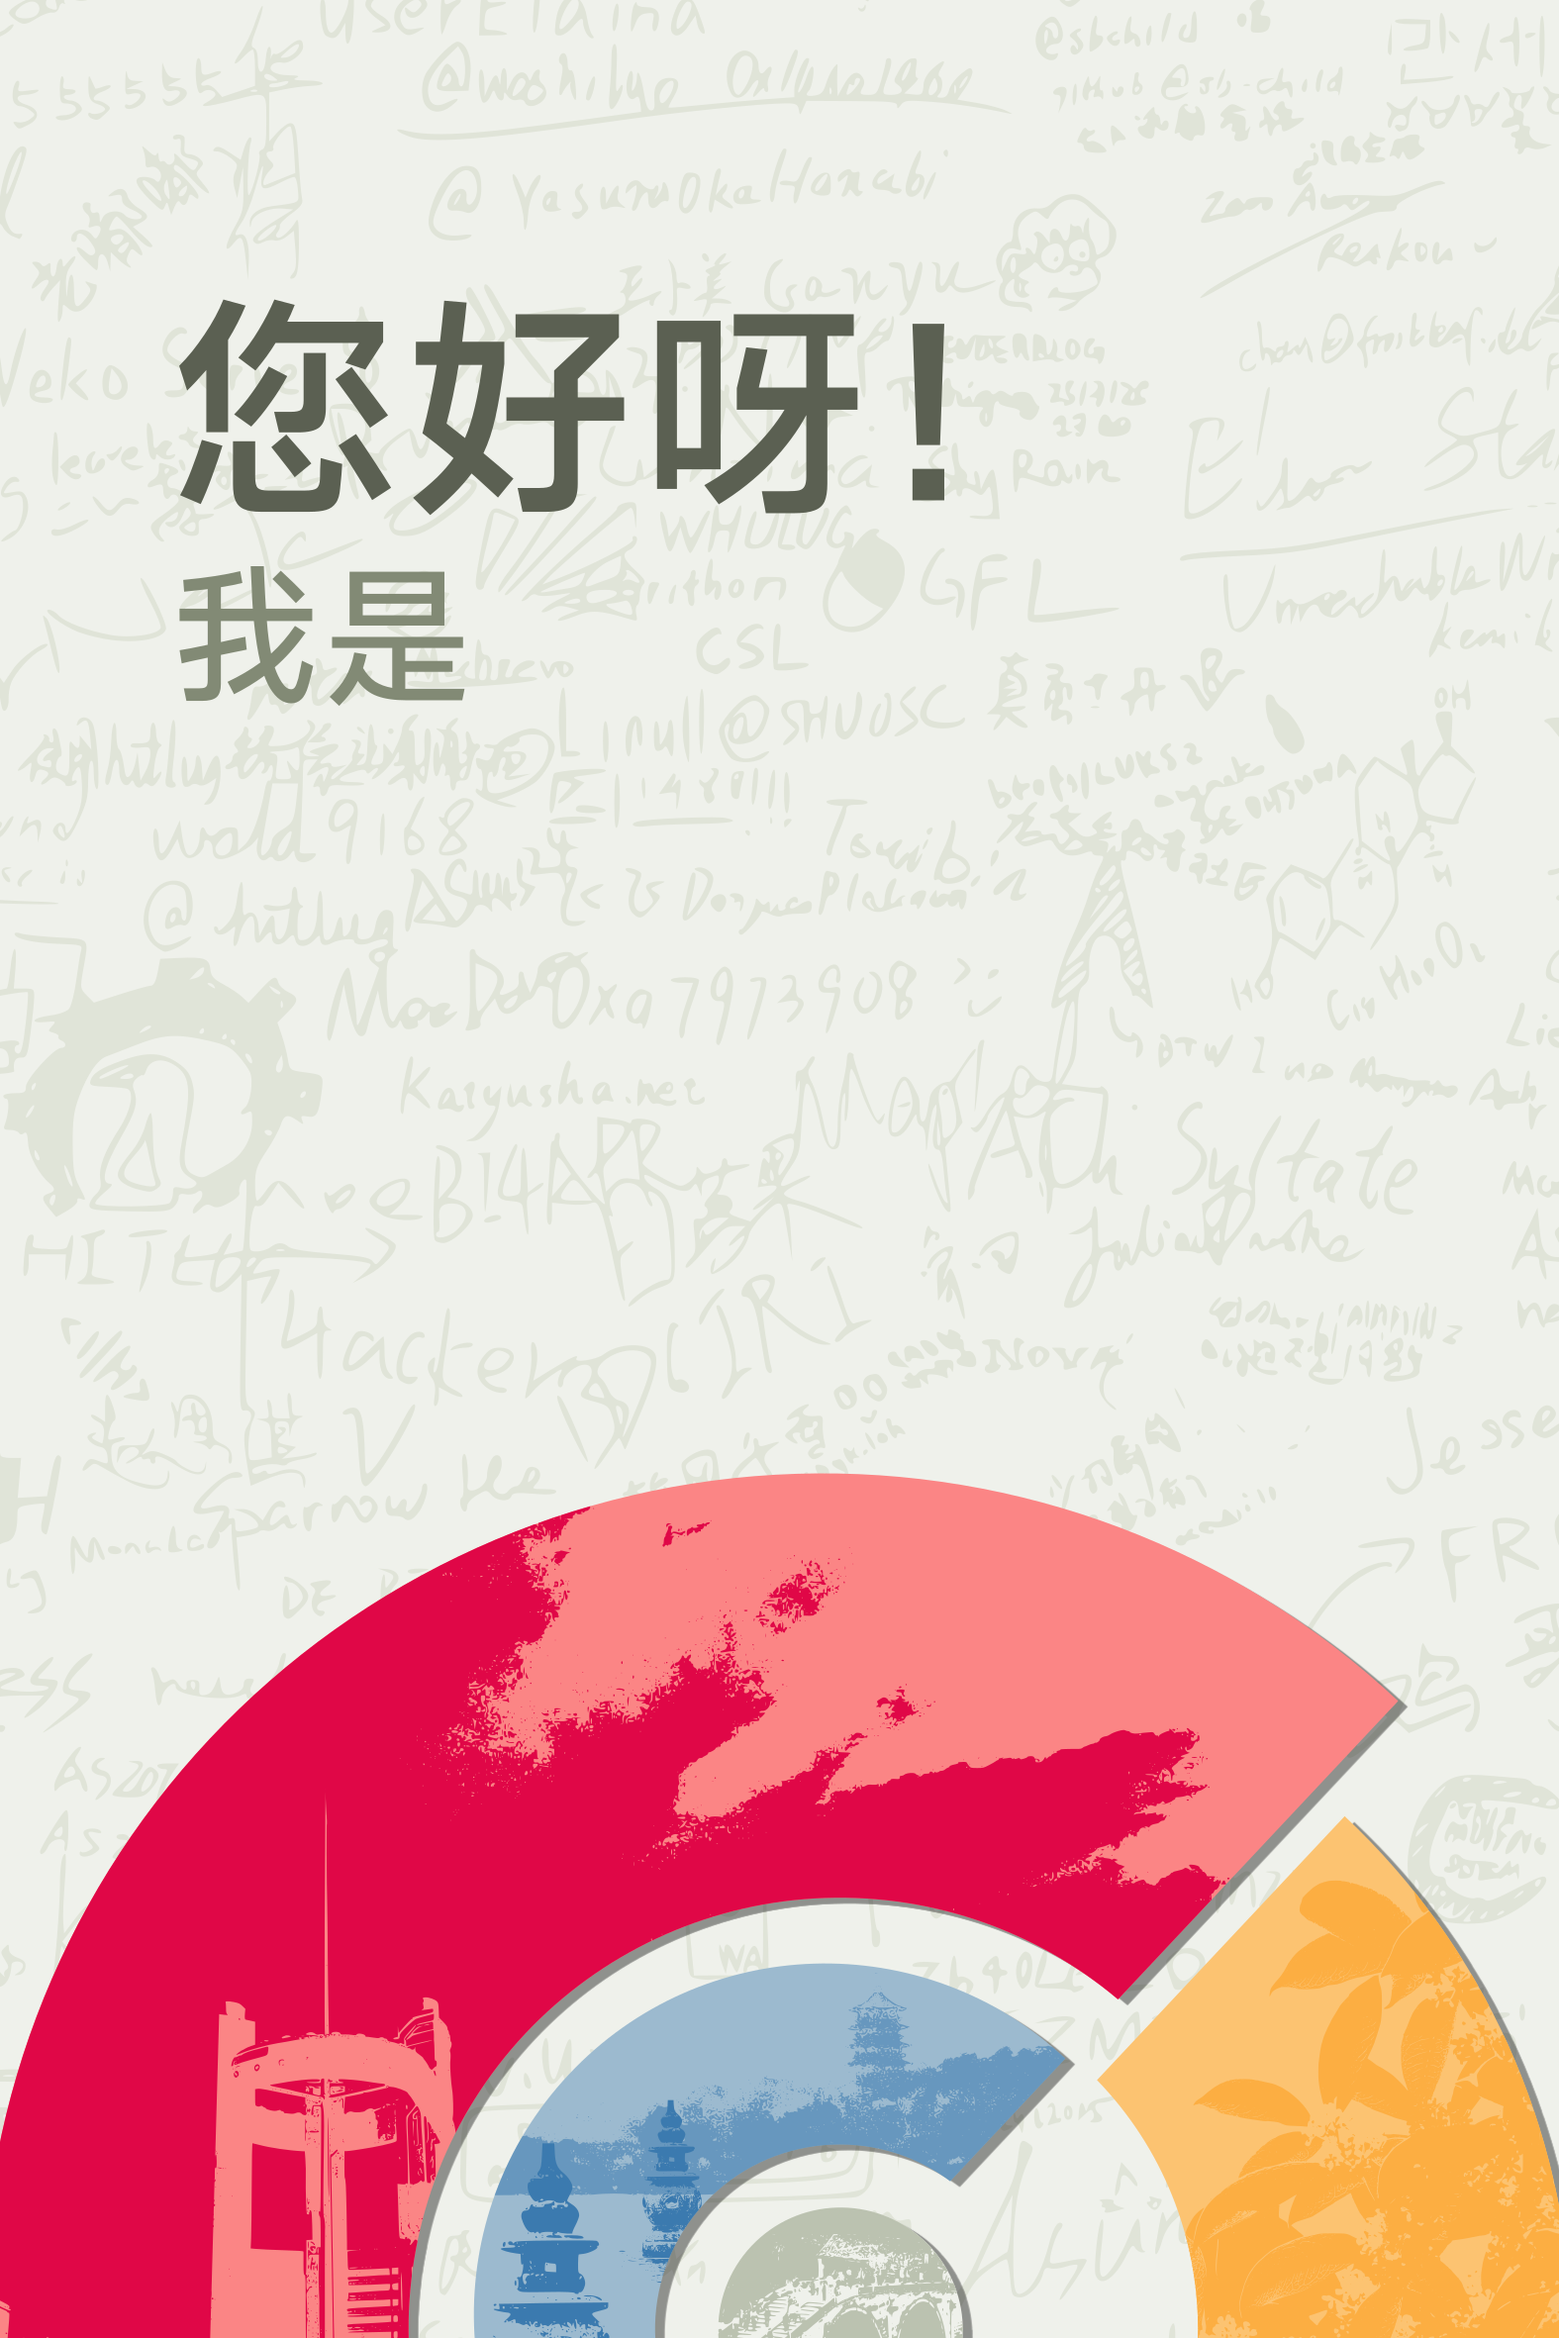
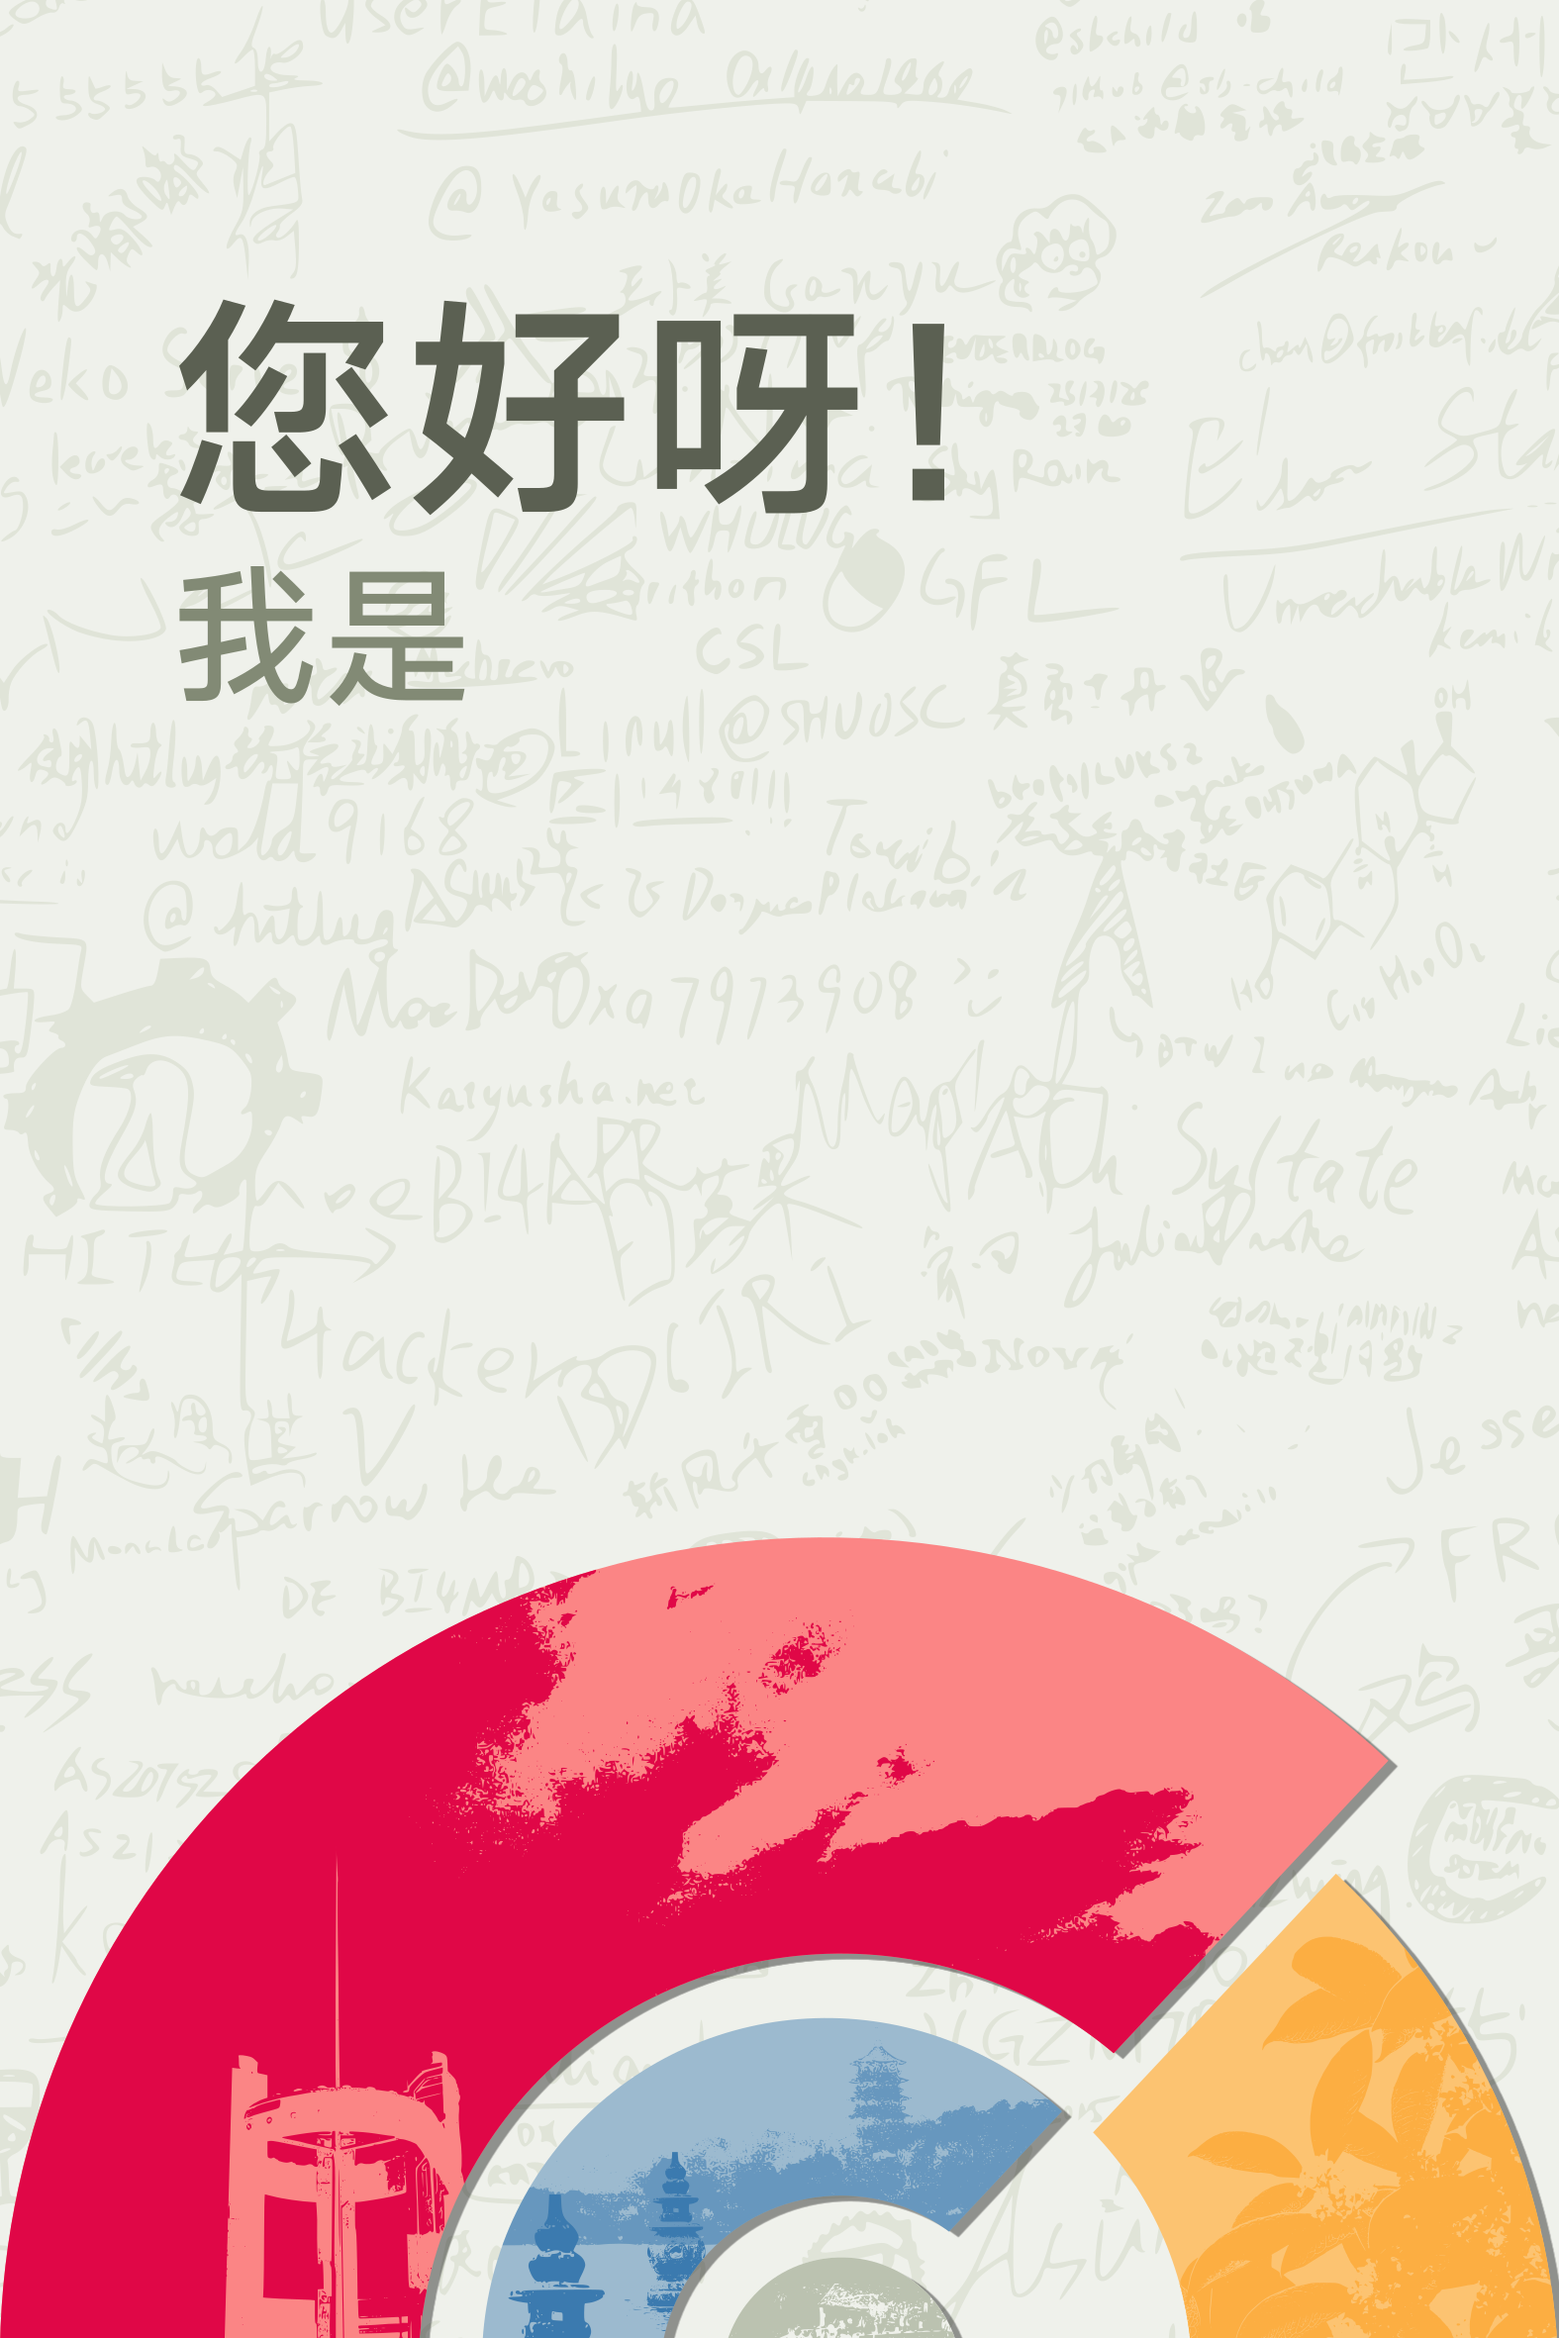
fix(badge): templating adjustment

Changed region(s): [[0.0, 0.6181, 1.0, 1.0]]

diff --git a/aoscc/user/badge.py b/aoscc/user/badge.py
@@ -28,7 +28,7 @@ def _enlarge_overlay() -> bool:
         new = Image.new("RGBA", (1575, 2362))  # 80x120mm dpi=500
         old = Image.open(_my_badge_overlay(), 'r', ('PNG',))
         old = old.crop((0, 0, min(old.width, 1200), min(old.height,800)))
-        new.paste(old, (180, 750), old)  # paste to customize area
+        new.paste(old, (180, 740), old)  # paste to customize area
         old.close()
         new.save(_my_badge_overlay(), format="png")
         new.close()
@@ -63,9 +63,9 @@ def _generate_overlay(line1: str, line2: str) -> Image.Image | None:
         overlay = Image.new("RGBA", (1575, 2362))  # 80x120mm dpi=500
         draw = ImageDraw.Draw(overlay)
         # draw the white line
-        draw.rectangle([(182, 1121), (1392, 1130)], fill=(0x5b,0x60,0x52))
-        overlay.paste(text1, (180, 1110-text1.height), text1)
-        overlay.paste(text2, (180, 1170), text2)
+        draw.rectangle([(182, 1101), (1392, 1110)], fill=(0x5b,0x60,0x52))
+        overlay.paste(text1, (180, 1090-text1.height), text1)
+        overlay.paste(text2, (180, 1150), text2)
         return overlay
 
 
